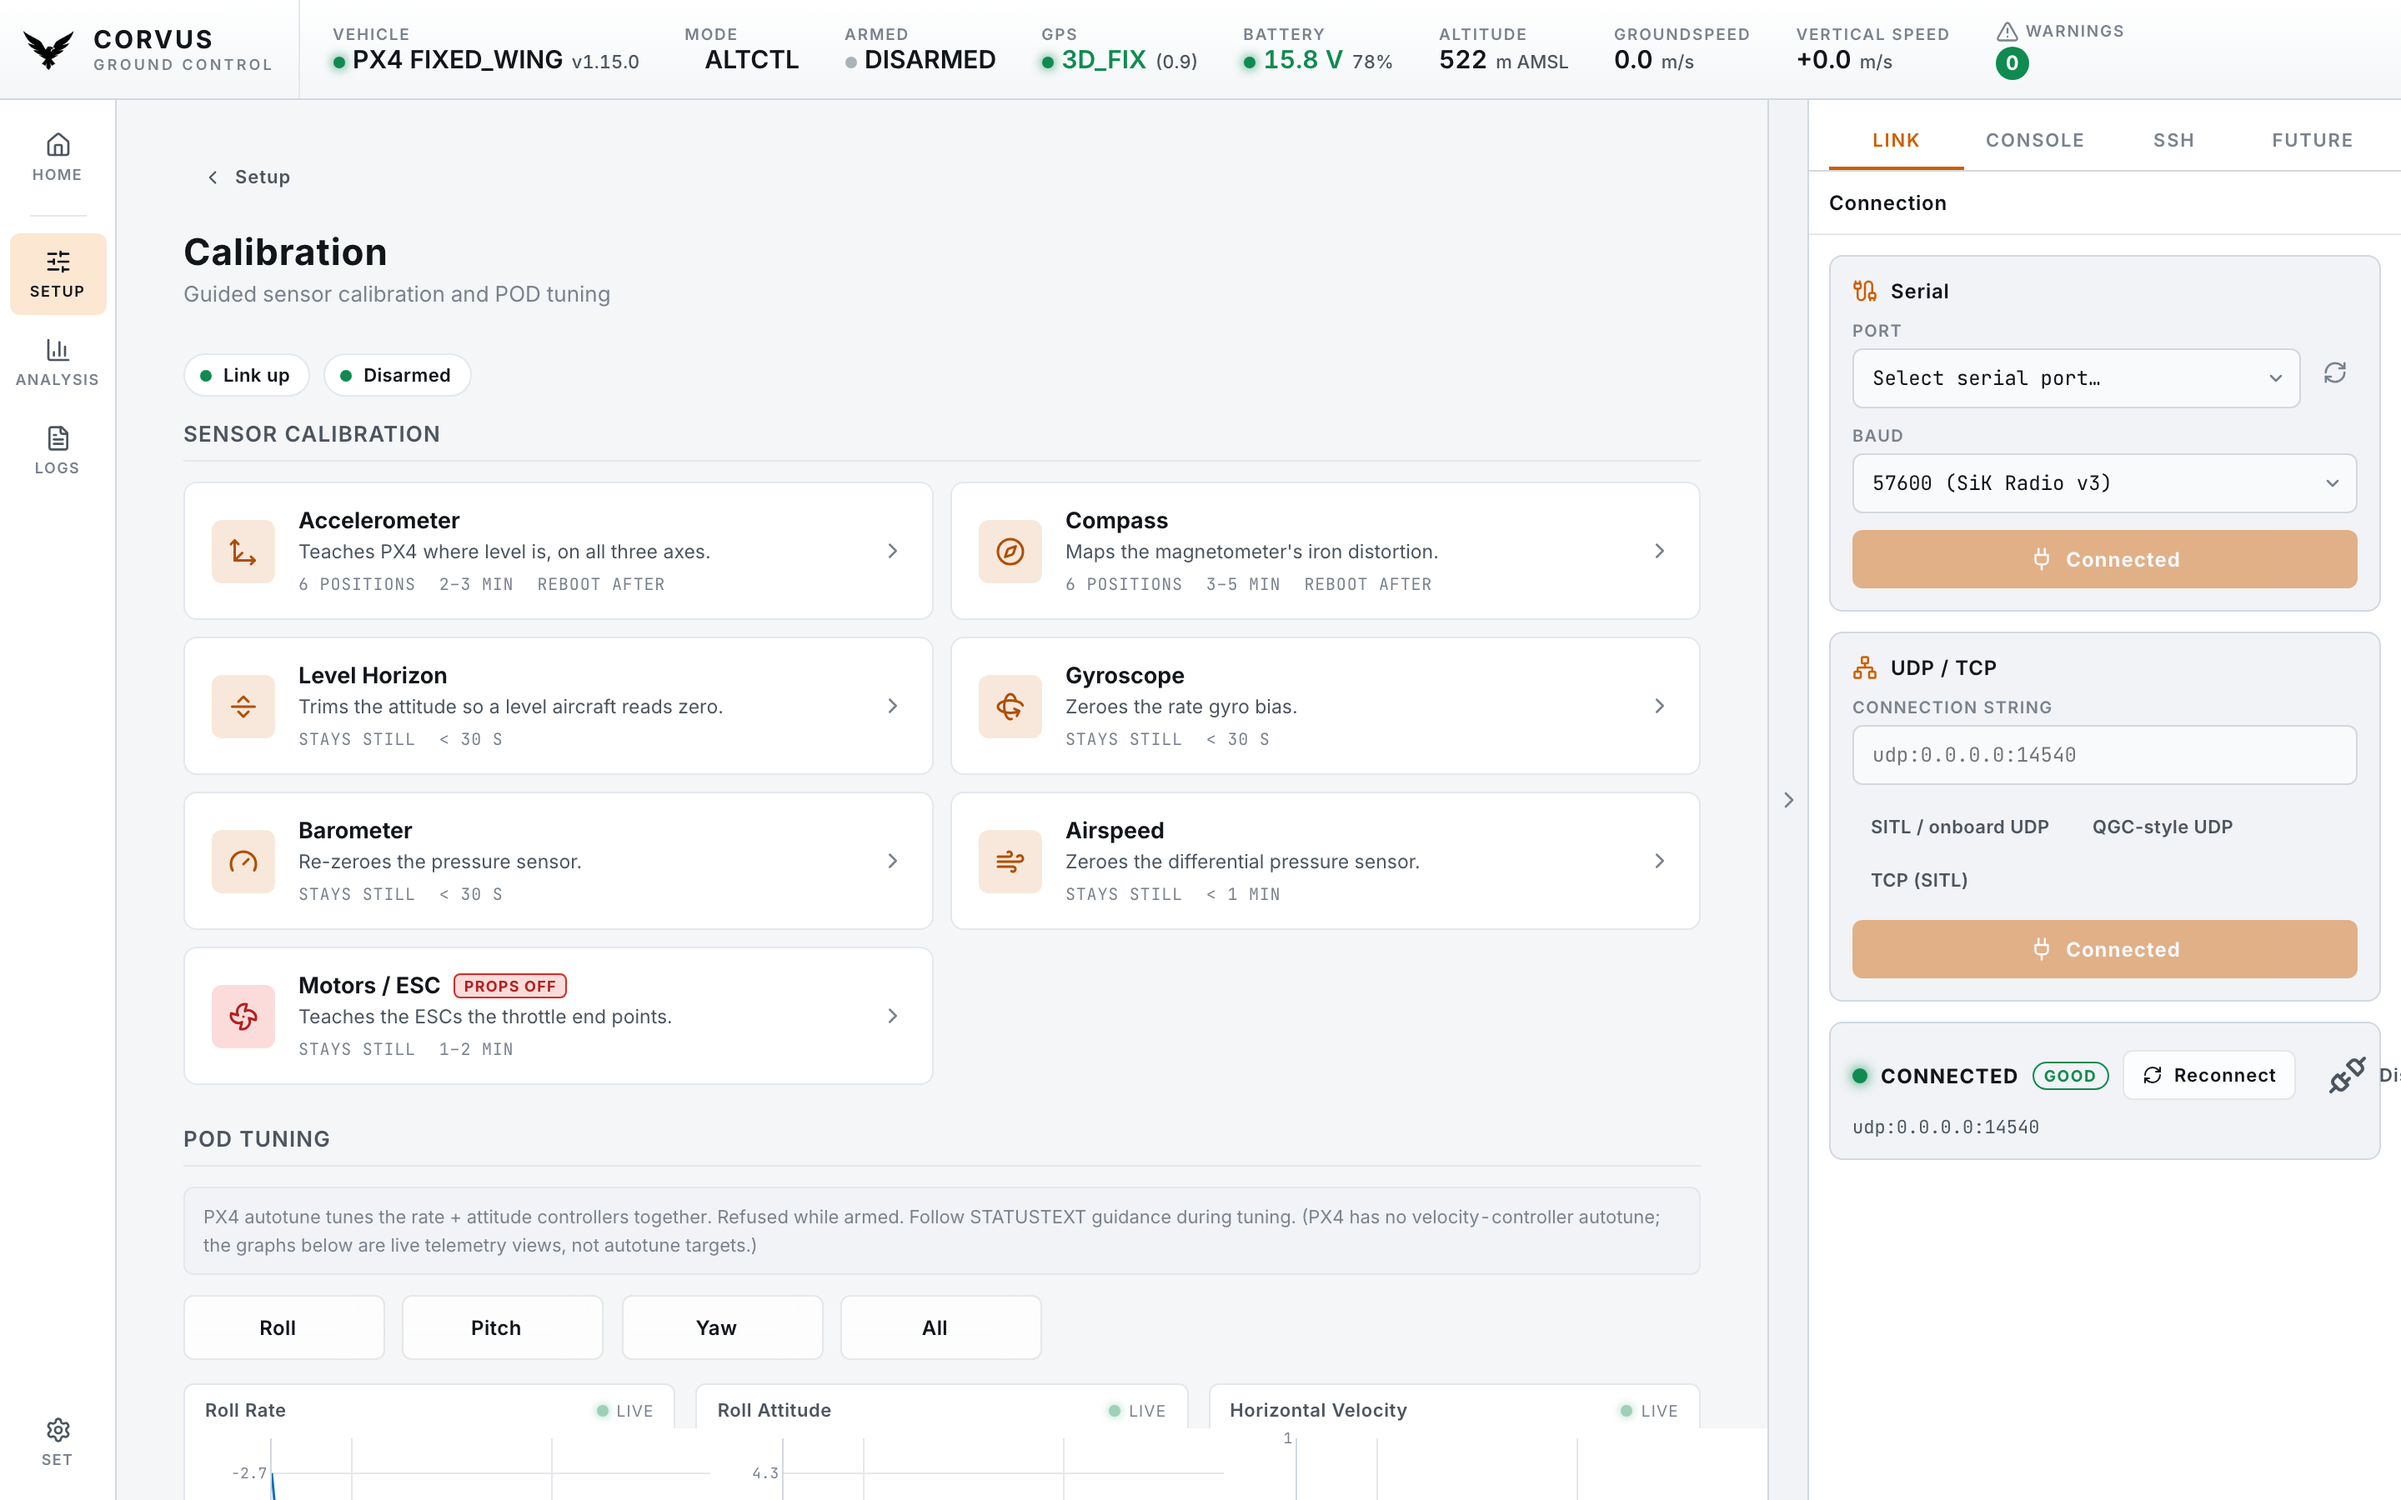
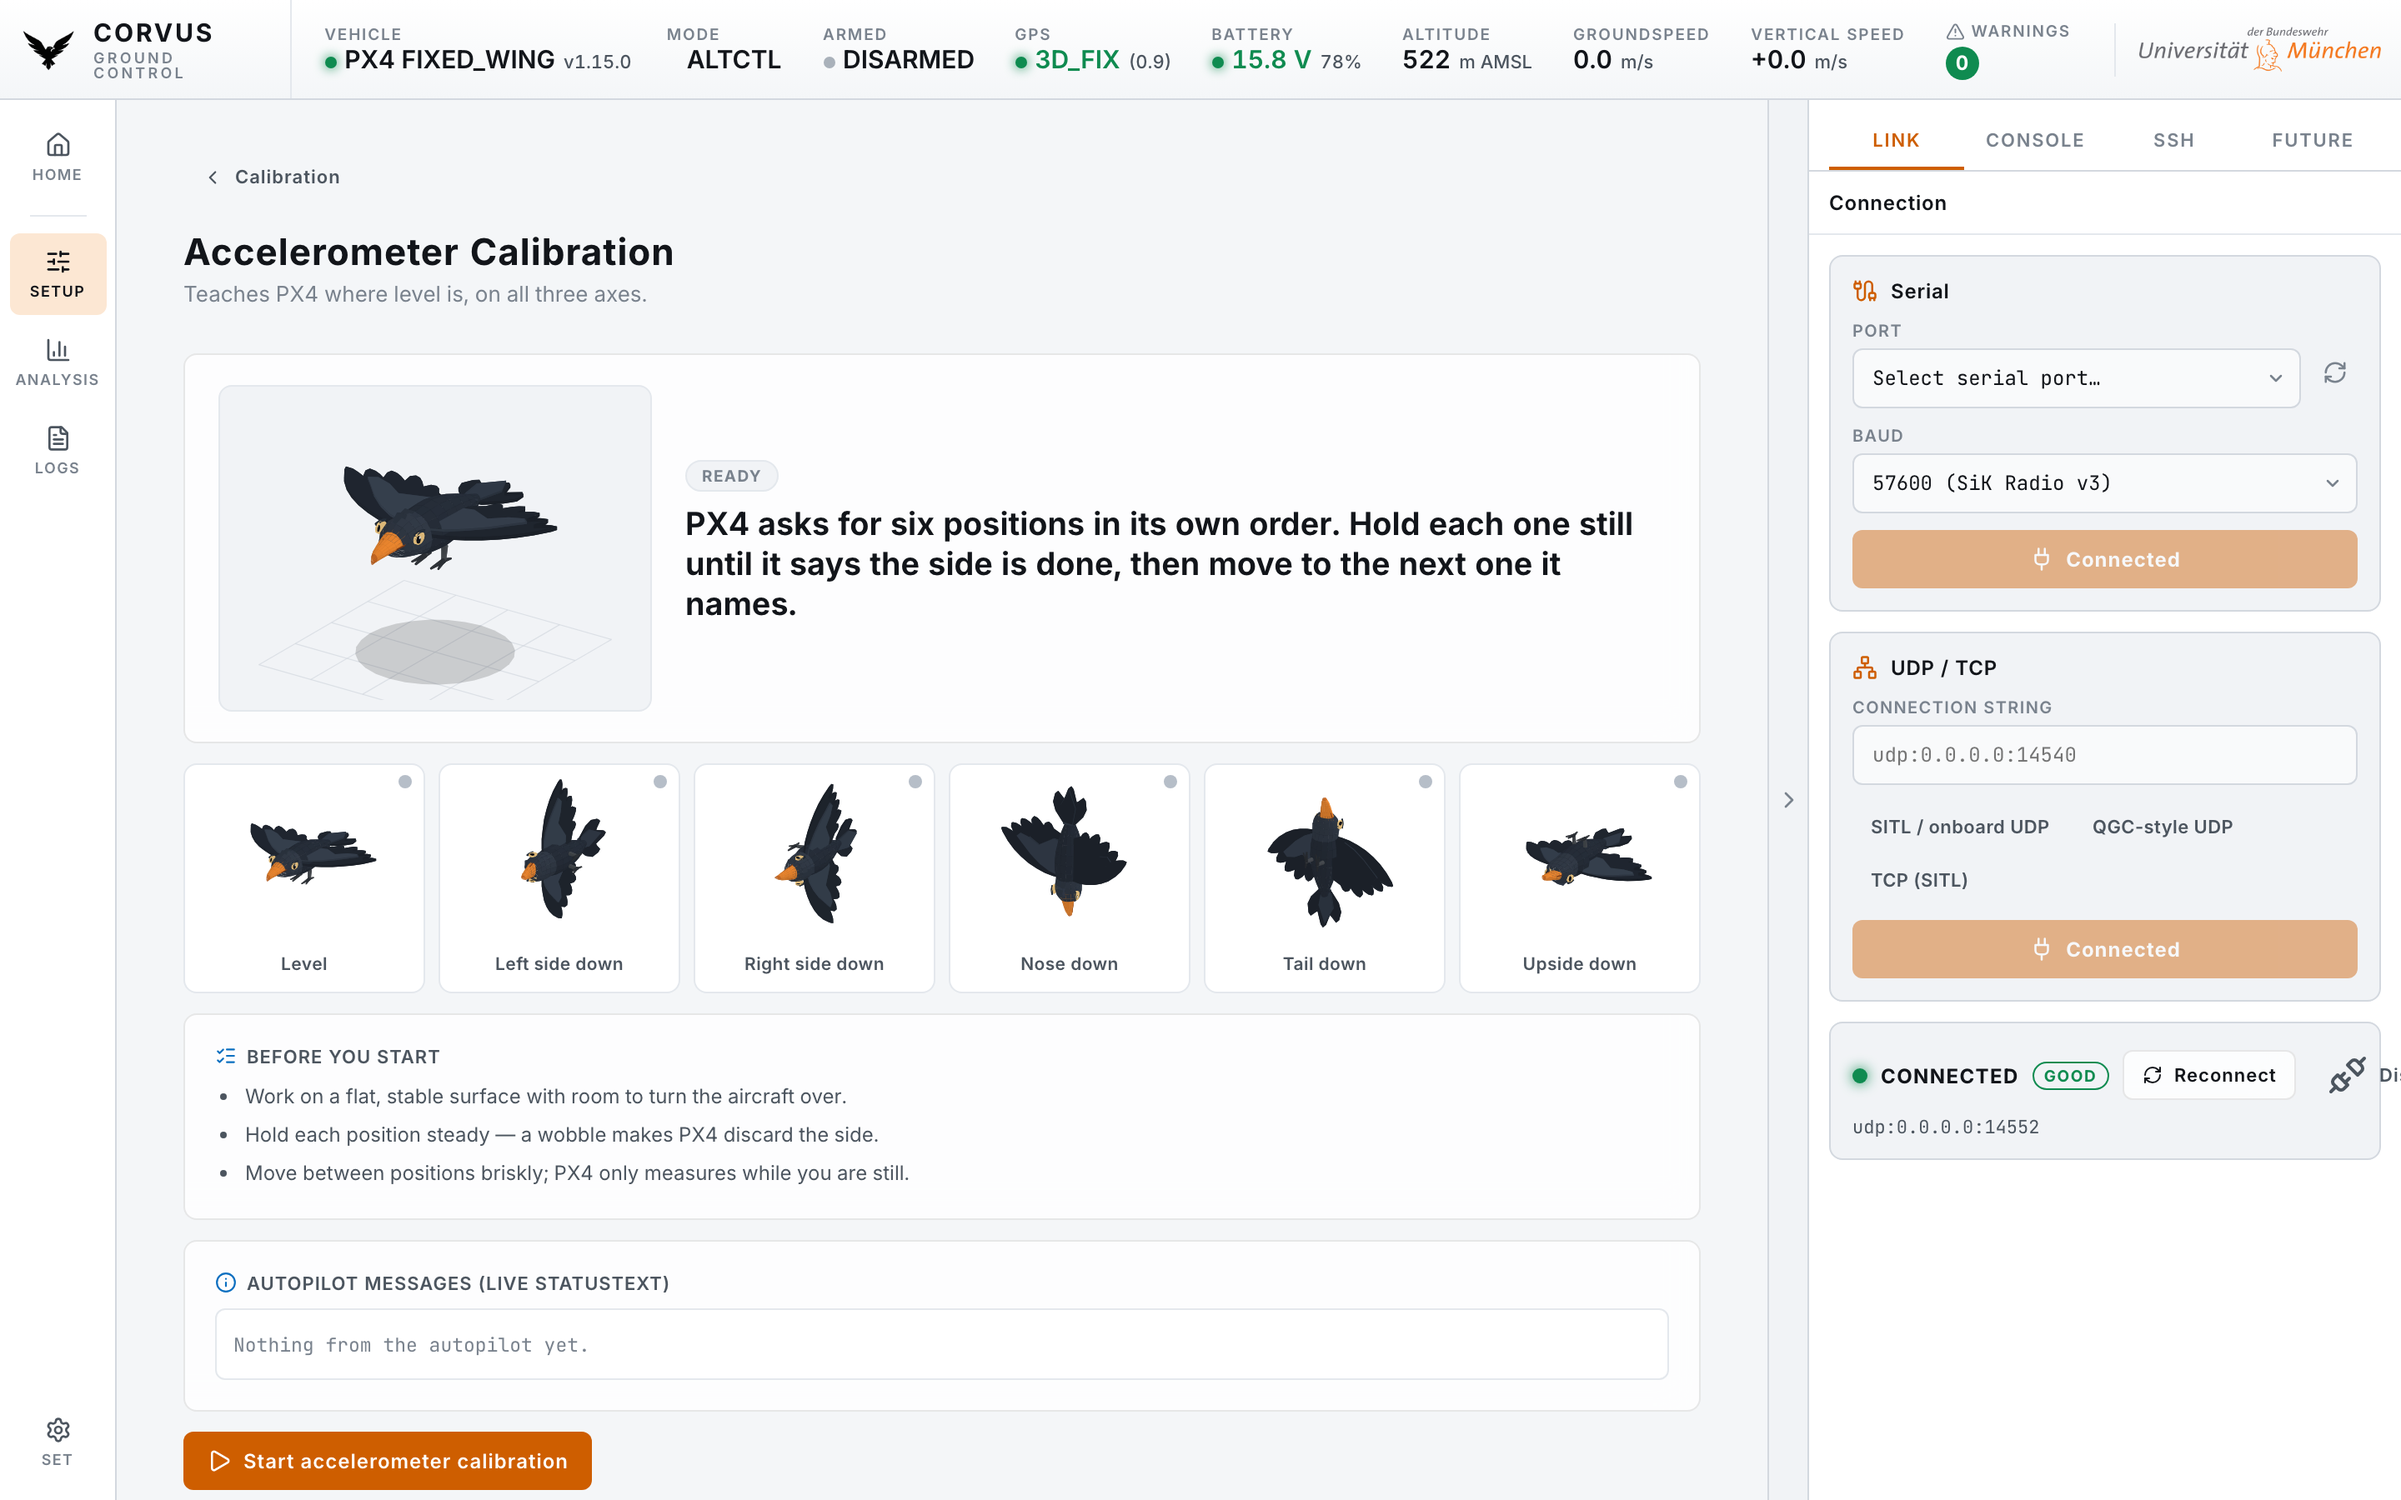
README: show the accelerometer calibration itself, not the menu of procedures
The calibration screenshot was the list of six procedures — a menu, which says
nothing about what makes this page worth having. It now opens the accelerometer
procedure, where the aircraft is drawn in the attitude PX4 is asking for, with
all six positions along the bottom.

That drawing is the point of the screen. PX4 names the side facing down, so
"up" means upside down and "front" means nose down — vocabulary that sends field
calibrations wrong. A picture of the aircraft in the position being asked for
cannot be misread the way the words can, and the caption now says so instead of
listing sensor names.

Captured against a live link and disarmed, so the page shows its ready state
rather than a "no link to the vehicle" banner over a disabled button.

diff --git a/README.md b/README.md
@@ -15,7 +15,7 @@
 
 <div align="center">
   <!-- corvus:version-badge -->
-  <img src="https://img.shields.io/badge/Version-2026.09.28-0E8A6B?style=for-the-badge" height="28" alt="Version 2026.09.28" />
+  <img src="https://img.shields.io/badge/Version-2026.09.29-0E8A6B?style=for-the-badge" height="28" alt="Version 2026.09.29" />
   <img width="8" />
   <a href="https://www.python.org/" target="_blank"><img src="https://img.shields.io/badge/Python_3.10%2B-3776AB?logo=python&logoColor=white&style=for-the-badge" height="28" alt="Python 3.10+" /></a>
   <img width="8" />
@@ -214,12 +214,15 @@ return-to-launch profile, and an action for every loss PX4 can detect. A distanc
 optical-flow camera comes up with one switch — driver and estimator together.</em></p>
 
 <p align="center">
-  <img src="assets/screenshot_calibration.png" alt="Setup: guided sensor calibration and autotune">
+  <img src="assets/screenshot_calibration.png" alt="Accelerometer calibration: the aircraft drawn in each position PX4 asks for">
 </p>
 
-<p align="center"><em><strong>Guided calibration.</strong> Compass, gyro, accelerometer, level horizon,
-barometer and airspeed, each with what it does and how long it takes. The aircraft is drawn in the
-position PX4 is asking for, and a running calibration can be cancelled on the vehicle.</em></p>
+<p align="center"><em><strong>Guided calibration.</strong> PX4 names the six accelerometer positions in
+its own order and in its own vocabulary — it names the side facing <strong>down</strong>, so "up" means
+upside down. So each one is drawn instead of named: hold the aircraft the way the bird is held. Every position
+is ticked off as PX4 accepts it, the autopilot's own messages run underneath, and a calibration in
+progress can be cancelled on the vehicle. Compass, gyro, level horizon, barometer and airspeed work the
+same way.</em></p>
 
 <p align="center">
   <img src="assets/screenshot_analysis.png" alt="Analysis: vehicle logs and Flight Review">
